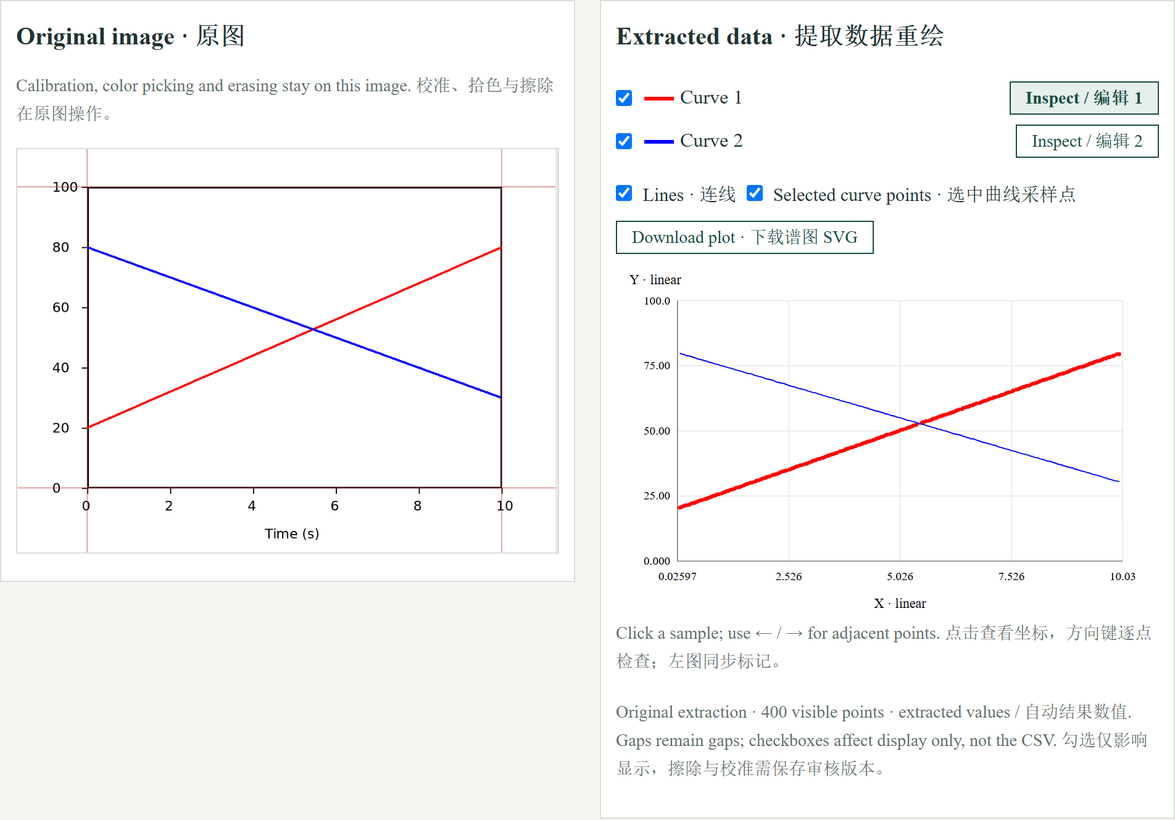
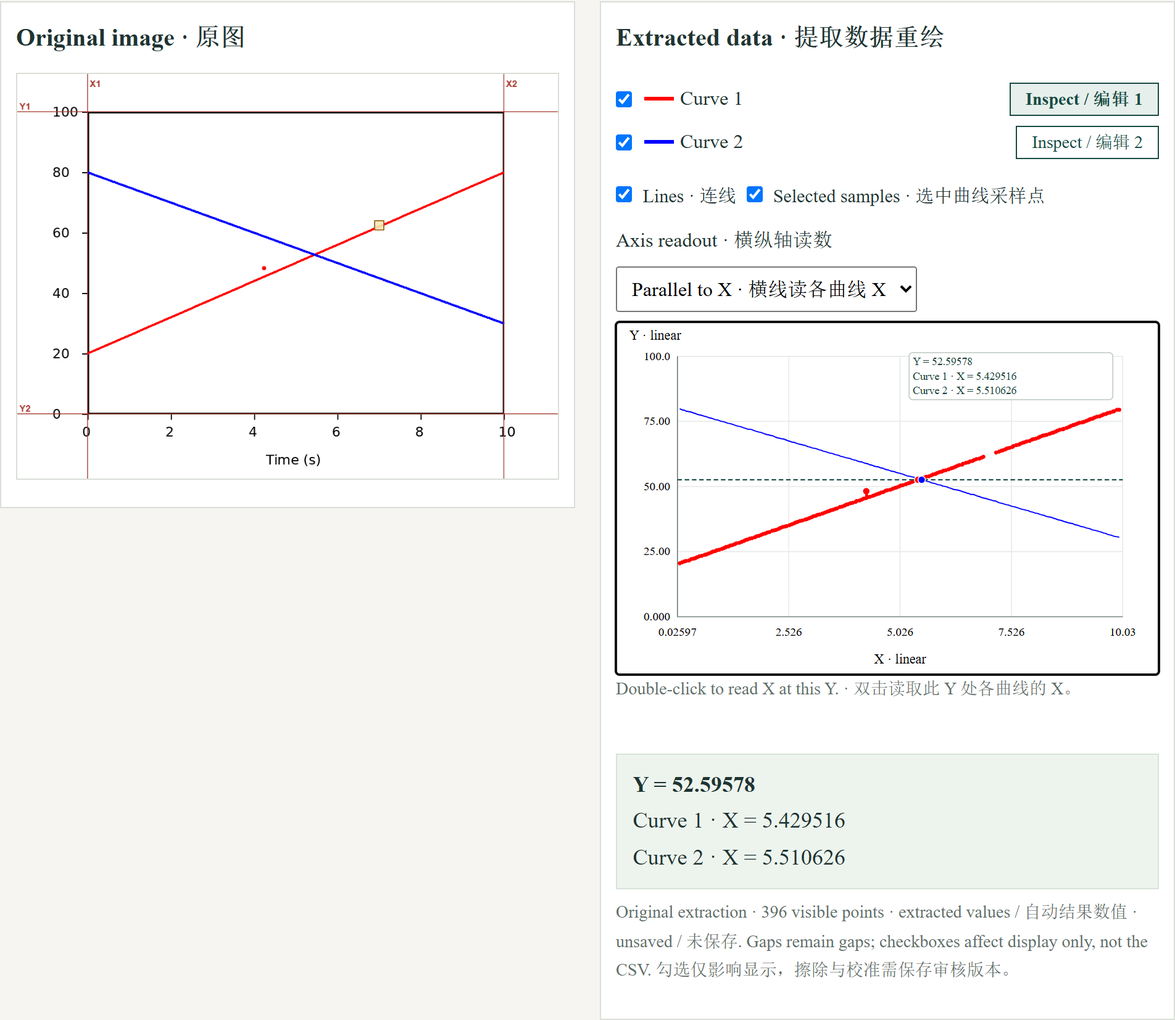
Update GBLine review guide

diff --git a/software/gbline/guide/index.html b/software/gbline/guide/index.html
@@ -21,7 +21,7 @@
     <nav aria-label="Main navigation"><a href="../../../#about">About</a><a href="../../../#research">Research</a><a href="../../../#software">Software</a><a href="../../../#publications">Publications</a><a href="../../../#contact">Contact</a></nav>
     <a class="language-link" href="../../../zh/software/gbline/guide/" lang="zh-CN" hreflang="zh-CN">中文</a>
   </div></header>
-  <main id="main"><div class="container guide-page"><div class="breadcrumb"><a href="../">Software overview</a> / GBLine · Illustrated guide</div><h1>GBLine · Illustrated guide</h1><p class="project-lead">Extract a chart, compare the redrawn data beside the original, then review calibration and curves before saving.</p><div class="project-buttons"><a class="button" href="https://compute.yumingsu.top/?tool=gbline">Free online experience</a><a class="button secondary" href="../">Software overview</a></div><p class="guide-note">Screenshots use public teaching data or synthetic examples, without user accounts, task tokens or private research data. Select an image to enlarge it.</p><nav class="guide-toc" aria-label="Guide steps"><a href="#step-1">1. Access and task lifecycle</a><a href="#step-2">2. Upload one chart</a><a href="#step-3">3. Compare original and redrawn curves</a><a href="#step-4">4. Save a reviewed version and export</a></nav><section class="guide-step" id="step-1"><h2>1. Access and task lifecycle</h2><p>Sign in with an approved account. For a new account, register with your email and password; the owner must approve the application before computation is enabled.</p><p>All tools share per-account limits: one running task, two queued tasks and ten submissions per day. Results expire after 72 hours. Save results you need to keep.</p></section><section class="guide-step" id="step-2"><h2>2. Upload one chart</h2><p>Choose a PNG/JPEG of a single chart with one X/Y axis pair. Enter the visible curve count and desired points per curve, then submit. Maximum 10 MiB and 20 million pixels.</p><p>The configured server-side Qwen service is shared by approved users; users do not enter API keys. Model suggestions still need visual review.</p><figure><a href="../../../images/guides/gbline-input.png" target="_blank" rel="noopener"><img src="../../../images/guides/gbline-input.png" alt="Upload controls, without private files or credentials." loading="lazy"></a><figcaption>Upload controls, without private files or credentials.</figcaption></figure></section><section class="guide-step" id="step-3"><h2>3. Compare original and redrawn curves</h2><p>Open Review curves after processing. The original stays on the left and extracted numeric curves are redrawn on the right. Toggle individual curves, lines or selected-curve sample points; click points to inspect coordinates.</p><p>Inspect/Edit selects the active curve. Calibration, picking colors and erasing operate on the original image. Check both axes, units and linear/log scale before trusting coordinates.</p><figure><a href="../../../images/guides/gbline-comparison.png" target="_blank" rel="noopener"><img src="../../../images/guides/gbline-comparison.png" alt="Synthetic two-curve review example; not an accuracy benchmark." loading="lazy"></a><figcaption>Synthetic two-curve review example; not an accuracy benchmark.</figcaption></figure></section><section class="guide-step" id="step-4"><h2>4. Save a reviewed version and export</h2><p>After calibration or erasing, save a human-reviewed version and inspect it again before exporting CSV. Original and reviewed versions remain distinguishable.</p><p>Display checkboxes change visibility, not exported CSV. Erased gaps remain gaps; a display-only SVG is not a substitute for saving a reviewed data version.</p></section><section class="guide-step"><h2>Troubleshooting</h2><p>review_required means evidence is insufficient for certified numeric curves; do not assume a CSV was lost. Open the evidence and review controls. If no usable curve is detected, use a clearer crop or resubmit rather than inventing points.</p><p>If processing fails, retain the task ID and visible message. The five-minute task limit and shared account quota apply.</p></section></div></main>
+  <main id="main"><div class="container guide-page"><div class="breadcrumb"><a href="../">Software overview</a> / GBLine · Illustrated guide</div><h1>GBLine · Illustrated guide</h1><p class="project-lead">Extract a chart, compare the redrawn data beside the original, then review calibration and curves before saving.</p><div class="project-buttons"><a class="button" href="https://compute.yumingsu.top/?tool=gbline">Free online experience</a><a class="button secondary" href="../">Software overview</a></div><p class="guide-note">Screenshots use public teaching data or synthetic examples, without user accounts, task tokens or private research data. Select an image to enlarge it.</p><nav class="guide-toc" aria-label="Guide steps"><a href="#step-1">1. Access and task lifecycle</a><a href="#step-2">2. Upload one chart</a><a href="#step-3">3. Compare original and redrawn curves</a><a href="#step-4">4. Save a reviewed version and export</a></nav><section class="guide-step" id="step-1"><h2>1. Access and task lifecycle</h2><p>Sign in with an approved account. For a new account, register with your email and password; the owner must approve the application before computation is enabled.</p><p>All tools share per-account limits: one running task, two queued tasks and ten submissions per day. Results expire after 72 hours. Save results you need to keep.</p></section><section class="guide-step" id="step-2"><h2>2. Upload one chart</h2><p>Choose a PNG/JPEG of a single chart with one X/Y axis pair. Enter the visible curve count and desired points per curve, then submit. Maximum 10 MiB and 20 million pixels.</p><p>The configured server-side Qwen service is shared by approved users; users do not enter API keys. Model suggestions still need visual review.</p><figure><a href="../../../images/guides/gbline-input.png" target="_blank" rel="noopener"><img src="../../../images/guides/gbline-input.png" alt="Upload controls, without private files or credentials." loading="lazy"></a><figcaption>Upload controls, without private files or credentials.</figcaption></figure></section><section class="guide-step" id="step-3"><h2>3. Compare original and redrawn curves</h2><p>Open Review curves after processing. The original stays on the left and extracted numeric curves are redrawn on the right. Toggle individual curves, lines or selected-curve sample points; click points to inspect coordinates.</p><p>Select a curve and use the original-image toolbar. Drag the circular eraser, click to add sample points, or drag a rectangle to exclude an area from color sampling and re-extraction.</p><figure><a href="../../../images/guides/gbline-comparison.png" target="_blank" rel="noopener"><img src="../../../images/guides/gbline-comparison.png" alt="Synthetic two-curve example with a mask and horizontal readout." loading="lazy"></a><figcaption>Synthetic two-curve example with a mask and horizontal readout.</figcaption></figure></section><section class="guide-step" id="step-4"><h2>4. Save a reviewed version and export</h2><p>Start manual calibration and double-click the X1, X2, Y1 and Y2 ticks in order. Enter each tick value in the dialog. On the right, select a vertical or horizontal readout line and double-click to display the curve intersections.</p><p>Save edits to download the reviewed CSV bundle. The segment ID marks gaps from erasing or masking.</p></section><section class="guide-step"><h2>Troubleshooting</h2><p>review_required means evidence is insufficient for certified numeric curves; do not assume a CSV was lost. Open the evidence and review controls. If no usable curve is detected, use a clearer crop or resubmit rather than inventing points.</p><p>If processing fails, retain the task ID and visible message. The five-minute task limit and shared account quota apply.</p></section></div></main>
   <footer class="site-footer"><div class="footer-inner"><p>© 2026 Yuming Su · 苏禹铭</p><p>Updated 2026-10-26 <span class="footer-dot">·</span> <a href="https://github.com/sym823808458/yumingsu_homepage">Website source ↗</a></p></div></footer>
 </body>
 </html>

diff --git a/zh/software/gbline/guide/index.html b/zh/software/gbline/guide/index.html
@@ -21,7 +21,7 @@
     <nav aria-label="主导航"><a href="../../../../zh/#about">关于我</a><a href="../../../../zh/#research">研究</a><a href="../../../../zh/#software">软件</a><a href="../../../../zh/#publications">论文</a><a href="../../../../zh/#contact">联系</a></nav>
     <a class="language-link" href="../../../../software/gbline/guide/" lang="en" hreflang="en">English</a>
   </div></header>
-  <main id="main"><div class="container guide-page"><div class="breadcrumb"><a href="../">软件介绍</a> / GBLine · 图文使用指南</div><h1>GBLine · 图文使用指南</h1><p class="project-lead">自动提取后把原图与数据重绘图并排核对，检查校准与曲线，再保存审核结果。</p><div class="project-buttons"><a class="button" href="https://compute.yumingsu.top/?tool=gbline">免费使用 · 线上体验</a><a class="button secondary" href="../">软件介绍</a></div><p class="guide-note">截图来自公开教学数据或合成示例，不含用户账户、任务令牌或未公开研究数据。点击图片可放大。</p><nav class="guide-toc" aria-label="Guide steps"><a href="#step-1">1. 登录与任务状态</a><a href="#step-2">2. 上传单张图表</a><a href="#step-3">3. 并排核对原图与重绘曲线</a><a href="#step-4">4. 保存审核版本与导出</a></nav><section class="guide-step" id="step-1"><h2>1. 登录与任务状态</h2><p>使用已批准的账户登录。新用户先注册，管理员批准后才能提交计算。</p><p>各工具共用账户配额：同时1个运行任务、2个排队任务，每天最多提交10次；结果保留72小时，需要长期保留时请自行保存。</p></section><section class="guide-step" id="step-2"><h2>2. 上传单张图表</h2><p>选择单个 X/Y 坐标系的 PNG/JPEG 图表，填写可见曲线数量及每条曲线点数，然后提交。图片最多10 MiB、2000万像素。</p><p>已批准用户共用服务器配置的千问接口，不需要填写 API key；模型输出仍需人工核对。</p><figure><a href="../../../../images/guides/gbline-input.png" target="_blank" rel="noopener"><img src="../../../../images/guides/gbline-input.png" alt="上传界面，不含私密文件或凭据。" loading="lazy"></a><figcaption>上传界面，不含私密文件或凭据。</figcaption></figure></section><section class="guide-step" id="step-3"><h2>3. 并排核对原图与重绘曲线</h2><p>处理后打开曲线审核，左边是原图，右边是提取数值重绘图。可分别勾选曲线、连线和选中曲线的采样点，点击点查看坐标。</p><p>“Inspect／编辑”选择当前曲线；校准、拾色和橡皮擦在原图操作。使用坐标前核对坐标轴、单位及线性／对数尺度。</p><figure><a href="../../../../images/guides/gbline-comparison.png" target="_blank" rel="noopener"><img src="../../../../images/guides/gbline-comparison.png" alt="合成双曲线的交互审核示例，不是精度基准。" loading="lazy"></a><figcaption>合成双曲线的交互审核示例，不是精度基准。</figcaption></figure></section><section class="guide-step" id="step-4"><h2>4. 保存审核版本与导出</h2><p>校准或擦除后先保存人工审核版本，再检查并导出 CSV。原始提取与人工审核版本明确区分。</p><p>勾选框只控制显示，不会裁剪导出的 CSV；擦除缺口保留为缺口。仅导出显示 SVG 不等于保存了审核数据。</p></section><section class="guide-step"><h2>遇到问题</h2><p>review_required 表示证据不足，不能把数值曲线视为已确认，并不等于 CSV 丢失。先打开证据与审核界面；没有可用曲线时更换清晰裁图或重新提交，不要补造点。</p><p>失败时保留任务编号和提示。每次最多5分钟，并受共享账户配额限制。</p></section></div></main>
+  <main id="main"><div class="container guide-page"><div class="breadcrumb"><a href="../">软件介绍</a> / GBLine · 图文使用指南</div><h1>GBLine · 图文使用指南</h1><p class="project-lead">自动提取后把原图与数据重绘图并排核对，检查校准与曲线，再保存审核结果。</p><div class="project-buttons"><a class="button" href="https://compute.yumingsu.top/?tool=gbline">免费使用 · 线上体验</a><a class="button secondary" href="../">软件介绍</a></div><p class="guide-note">截图来自公开教学数据或合成示例，不含用户账户、任务令牌或未公开研究数据。点击图片可放大。</p><nav class="guide-toc" aria-label="Guide steps"><a href="#step-1">1. 登录与任务状态</a><a href="#step-2">2. 上传单张图表</a><a href="#step-3">3. 并排核对原图与重绘曲线</a><a href="#step-4">4. 保存审核版本与导出</a></nav><section class="guide-step" id="step-1"><h2>1. 登录与任务状态</h2><p>使用已批准的账户登录。新用户先注册，管理员批准后才能提交计算。</p><p>各工具共用账户配额：同时1个运行任务、2个排队任务，每天最多提交10次；结果保留72小时，需要长期保留时请自行保存。</p></section><section class="guide-step" id="step-2"><h2>2. 上传单张图表</h2><p>选择单个 X/Y 坐标系的 PNG/JPEG 图表，填写可见曲线数量及每条曲线点数，然后提交。图片最多10 MiB、2000万像素。</p><p>已批准用户共用服务器配置的千问接口，不需要填写 API key；模型输出仍需人工核对。</p><figure><a href="../../../../images/guides/gbline-input.png" target="_blank" rel="noopener"><img src="../../../../images/guides/gbline-input.png" alt="上传界面，不含私密文件或凭据。" loading="lazy"></a><figcaption>上传界面，不含私密文件或凭据。</figcaption></figure></section><section class="guide-step" id="step-3"><h2>3. 并排核对原图与重绘曲线</h2><p>处理后打开曲线审核，左边是原图，右边是提取数值重绘图。可分别勾选曲线、连线和选中曲线的采样点，点击点查看坐标。</p><p>选定曲线后，在原图拖动圆形橡皮擦、点击补点，或拖出矩形遮罩。遮罩区不参与拾色或重新提取。</p><figure><a href="../../../../images/guides/gbline-comparison.png" target="_blank" rel="noopener"><img src="../../../../images/guides/gbline-comparison.png" alt="合成双曲线示例，展示遮罩和横线读数。" loading="lazy"></a><figcaption>合成双曲线示例，展示遮罩和横线读数。</figcaption></figure></section><section class="guide-step" id="step-4"><h2>4. 保存审核版本与导出</h2><p>点击开始四点校准，依次双击 X1、X2、Y1、Y2 刻度，每次在弹窗输入数值。在右图选择横线或竖线，双击显示各曲线交点。</p><p>保存修改后可下载人工版本 CSV 压缩包。分段编号保留擦除或遮罩造成的缺口。</p></section><section class="guide-step"><h2>遇到问题</h2><p>review_required 表示证据不足，不能把数值曲线视为已确认，并不等于 CSV 丢失。先打开证据与审核界面；没有可用曲线时更换清晰裁图或重新提交，不要补造点。</p><p>失败时保留任务编号和提示。每次最多5分钟，并受共享账户配额限制。</p></section></div></main>
   <footer class="site-footer"><div class="footer-inner"><p>© 2026 Yuming Su · 苏禹铭</p><p>更新于 2026-10-26 <span class="footer-dot">·</span> <a href="https://github.com/sym823808458/yumingsu_homepage">网站源码 ↗</a></p></div></footer>
 </body>
 </html>

diff --git a/software/gbline/index.html b/software/gbline/index.html
@@ -26,14 +26,14 @@
 <h2>Online calculation</h2>
 <p>Use <strong>Online compute demo</strong> above, register with an email and password and wait for administrator approval. In GBLine, upload a PNG or JPEG chart (up to 10 MiB), enter the visible curve count and maximum point count, and submit once. A downloadable two-curve example is available in the workspace.</p>
 <p>The workspace offers <strong>pure software extraction</strong> and a <strong>Qwen-assisted</strong> mode. When the site model service is configured and available, Qwen assistance is selected by default. It sends the chart image to the site-configured model provider for at most two reviews; the site supplies the key and covers model requests. Users do not enter an API key. Current availability is shown before submission; pure software remains available when the model service is not ready.</p>
-<p>Open <strong>Review curves</strong> beside a completed task to compare the curves with the original image. Select, highlight or hide individual traces, zoom, and correct the result:</p>
+<p>Open <strong>Review curves</strong> beside a completed task to compare the curves with the original image.</p>
 <ul>
-<li>Calibrate with two X ticks and two Y ticks. Enter the actual tick values and select linear or logarithmic axes; reversed axes are supported.</li>
-<li>Pick curve colors from the original raster, then re-extract with the corrections. This creates a new task under your normal quota and does not call Qwen.</li>
-<li>Erase unwanted points on the selected curve and undo strokes. Saved CSV files retain gaps using <code>segment_id</code>; do not reconnect separate segments.</li>
-<li>Save an accepted, needs-correction or abandoned review. Reopen saved versions and download their CSVs, overlay preview and review record. The original extraction remains a separate, unchanged download.</li>
+<li>Use the live eraser, click-to-add brush and rectangular mask on the original. Qwen-assisted extraction identifies legend labels and color swatches for masking.</li>
+<li>Start manual calibration, double-click X1, X2, Y1 and Y2 and enter the values in the dialogs. Linear, logarithmic and reversed axes are supported.</li>
+<li>Pick colors outside masks and re-extract with the selected calibration and masks. Double-click a vertical or horizontal line on the redrawn plot to read curve intersections.</li>
+<li>Save edits and download the reviewed CSV bundle. Segment IDs preserve gaps.</li>
 </ul>
-<p>The online version supports one panel with one X/Y axis pair. A review-required result does not include certified numerical curves. Human calibration and acceptance are recorded as human interventions, not automatic validation. Model review cannot guarantee a correct extraction.</p>
+<p>The online version supports one panel with one X/Y axis pair. A review-required result does not include certified numerical curves. Human calibration and editing are recorded as human interventions, not automatic validation. Model review cannot guarantee a correct extraction.</p>
 <p>Each task is limited to 2 CPU threads, 4 GiB RAM and 5 minutes. All tools share 1 running task, 2 queued tasks and 10 daily submissions per user. Private results expire after 72 hours.</p>
 <p>GBLine is a local tool for digitizing scientific line charts and chemical spectra. It connects OCR, coordinate calibration and pixel-based curve extraction with an optional vision-language-model review workflow through MCP.</p>
 <p>The numerical core performs coordinate conversion and curve tracing. A visual model can inspect visible tick labels and curve colors, propose corrections and respond to the tool&#x27;s diagnostic feedback.</p>

diff --git a/zh/software/gbline/index.html b/zh/software/gbline/index.html
@@ -26,14 +26,14 @@
 <h2>在线计算</h2>
 <p>点击上方<strong>在线计算演示</strong>，用邮箱和密码注册并等待管理员批准。在 GBLine 中上传 PNG 或 JPEG 图表（最多 10 MiB），填写可见曲线数及每条曲线的最大点数，提交一次即可。工作区提供可下载的双曲线示例。</p>
 <p>工作区提供<strong>纯软件提取</strong>与 <strong>Qwen 辅助</strong>两种方式。站点模型服务配置完成且可用时，默认选择 Qwen 辅助：将图表图片发送到站点配置的模型服务，每张图最多复核两次，密钥和调用费用由站点统一承担，用户无需填写 API key。提交前会显示当前可用状态；模型服务未就绪时仍可选择纯软件。</p>
-<p>完成后，在任务旁点击<strong>交互审核</strong>，将曲线叠加到原图上检查。可以选择、高亮或隐藏各条曲线，并进行缩放和修正：</p>
+<p>完成后，在任务旁点击<strong>交互审核</strong>。左图用于编辑，右图显示数值曲线。</p>
 <ul>
-<li>四点校准：X、Y 轴各点选两个刻度，填写实际数值，选择线性或对数尺度；支持反向坐标轴。</li>
-<li>从原始图片拾取曲线颜色，再按校准／拾色结果重新提取。新建任务占用正常任务配额，不调用 Qwen。</li>
-<li>橡皮擦只删除选中曲线的点，支持撤销。CSV 用 <code>segment_id</code> 保留断点，使用时不要跨段连接。</li>
-<li>保存“接受”“仍需修正”或“放弃”的审核版本。可以重新打开已保存的版本，下载曲线 CSV、叠加预览与审核记录。原始提取结果保留为单独下载，不被覆盖。</li>
+<li>橡皮擦显示圆形范围和拖动轨迹。画笔点击原图补点，矩形遮罩屏蔽区域内的拾色。Qwen 辅助会识别并遮罩图内图例标签和色块。</li>
+<li>点击开始四点校准，依次双击 X1、X2、Y1、Y2 刻度并在弹窗输入实际值。支持线性、对数与反向坐标轴。</li>
+<li>在右图选择竖线或横线并双击，读取各条可见曲线在该 X 处的 Y 或该 Y 处的 X。</li>
+<li>保存修改后下载人工版本 ZIP。CSV 用 <code>segment_id</code> 保留缺口。可用校准、拾色与遮罩创建新的提取任务。</li>
 </ul>
-<p>在线版本支持单面板、一组 X/Y 坐标轴。需要复核的结果不会冒充经过验证的数值曲线。人工校准与接受会明确记录为人工干预，不当作自动验证；模型复核也不能保证提取正确。</p>
+<p>在线版本支持单面板、一组 X/Y 坐标轴。需要复核的结果不会冒充经过验证的数值曲线。人工校准和编辑会明确记录为人工干预，不当作自动验证；模型复核也不能保证提取正确。</p>
 <p>每项任务限制 2 个 CPU 线程、4 GiB 内存、5 分钟。各工具共用每用户 1 项运行、2 项排队、每天 10 次提交的配额。私人结果保留 72 小时。</p>
 <p>GBLine 是面向科研折线图与化学谱图的本地数字化工具，将 OCR、坐标标定、像素曲线提取与可选的视觉大模型复核连接起来，通过 MCP 提供工具接口。</p>
 <p>数值核心负责坐标换算与曲线追踪；视觉模型观察原图中的刻度和曲线颜色，提出修正，并根据工具返回的诊断继续复核。</p>

diff --git a/content/software/gbline.en.md b/content/software/gbline.en.md
@@ -6,14 +6,14 @@ Use **Online compute demo** above, register with an email and password and wait 
 
 The workspace offers **pure software extraction** and a **Qwen-assisted** mode. When the site model service is configured and available, Qwen assistance is selected by default. It sends the chart image to the site-configured model provider for at most two reviews; the site supplies the key and covers model requests. Users do not enter an API key. Current availability is shown before submission; pure software remains available when the model service is not ready.
 
-Open **Review curves** beside a completed task to compare the curves with the original image. Select, highlight or hide individual traces, zoom, and correct the result:
+Open **Review curves** beside a completed task to compare the curves with the original image.
 
-- Calibrate with two X ticks and two Y ticks. Enter the actual tick values and select linear or logarithmic axes; reversed axes are supported.
-- Pick curve colors from the original raster, then re-extract with the corrections. This creates a new task under your normal quota and does not call Qwen.
-- Erase unwanted points on the selected curve and undo strokes. Saved CSV files retain gaps using `segment_id`; do not reconnect separate segments.
-- Save an accepted, needs-correction or abandoned review. Reopen saved versions and download their CSVs, overlay preview and review record. The original extraction remains a separate, unchanged download.
+- Use the live eraser, click-to-add brush and rectangular mask on the original. Qwen-assisted extraction identifies legend labels and color swatches for masking.
+- Start manual calibration, double-click X1, X2, Y1 and Y2 and enter the values in the dialogs. Linear, logarithmic and reversed axes are supported.
+- Pick colors outside masks and re-extract with the selected calibration and masks. Double-click a vertical or horizontal line on the redrawn plot to read curve intersections.
+- Save edits and download the reviewed CSV bundle. Segment IDs preserve gaps.
 
-The online version supports one panel with one X/Y axis pair. A review-required result does not include certified numerical curves. Human calibration and acceptance are recorded as human interventions, not automatic validation. Model review cannot guarantee a correct extraction.
+The online version supports one panel with one X/Y axis pair. A review-required result does not include certified numerical curves. Human calibration and editing are recorded as human interventions, not automatic validation. Model review cannot guarantee a correct extraction.
 
 Each task is limited to 2 CPU threads, 4 GiB RAM and 5 minutes. All tools share 1 running task, 2 queued tasks and 10 daily submissions per user. Private results expire after 72 hours.
 

diff --git a/content/software/gbline.zh.md b/content/software/gbline.zh.md
@@ -6,14 +6,15 @@
 
 工作区提供**纯软件提取**与 **Qwen 辅助**两种方式。站点模型服务配置完成且可用时，默认选择 Qwen 辅助：将图表图片发送到站点配置的模型服务，每张图最多复核两次，密钥和调用费用由站点统一承担，用户无需填写 API key。提交前会显示当前可用状态；模型服务未就绪时仍可选择纯软件。
 
-完成后，在任务旁点击**交互审核**，将曲线叠加到原图上检查。可以选择、高亮或隐藏各条曲线，并进行缩放和修正：
+完成后，在任务旁点击**交互审核**。左图用于编辑，右图显示数值曲线。
 
-- 四点校准：X、Y 轴各点选两个刻度，填写实际数值，选择线性或对数尺度；支持反向坐标轴。
-- 从原始图片拾取曲线颜色，再按校准／拾色结果重新提取。新建任务占用正常任务配额，不调用 Qwen。
-- 橡皮擦只删除选中曲线的点，支持撤销。CSV 用 `segment_id` 保留断点，使用时不要跨段连接。
-- 保存“接受”“仍需修正”或“放弃”的审核版本。可以重新打开已保存的版本，下载曲线 CSV、叠加预览与审核记录。原始提取结果保留为单独下载，不被覆盖。
+- 橡皮擦显示圆形范围和拖动轨迹。画笔点击原图补点，矩形遮罩屏蔽区域内的拾色。Qwen 辅助会识别并遮罩图内图例标签和色块。
+- 点击开始四点校准，依次双击 X1、X2、Y1、Y2 刻度并在弹窗输入实际值。支持线性、对数与反向坐标轴。
+- 在右图选择竖线或横线并双击，读取各条可见曲线在该 X 处的 Y 或该 Y 处的 X。
+- 保存修改后下载人工版本 ZIP。CSV 用 `segment_id` 保留缺口。可用校准、拾色与遮罩创建新的提取任务。
 
-在线版本支持单面板、一组 X/Y 坐标轴。需要复核的结果不会冒充经过验证的数值曲线。人工校准与接受会明确记录为人工干预，不当作自动验证；模型复核也不能保证提取正确。
+
+在线版本支持单面板、一组 X/Y 坐标轴。需要复核的结果不会冒充经过验证的数值曲线。人工校准和编辑会明确记录为人工干预，不当作自动验证；模型复核也不能保证提取正确。
 
 每项任务限制 2 个 CPU 线程、4 GiB 内存、5 分钟。各工具共用每用户 1 项运行、2 项排队、每天 10 次提交的配额。私人结果保留 72 小时。
 
